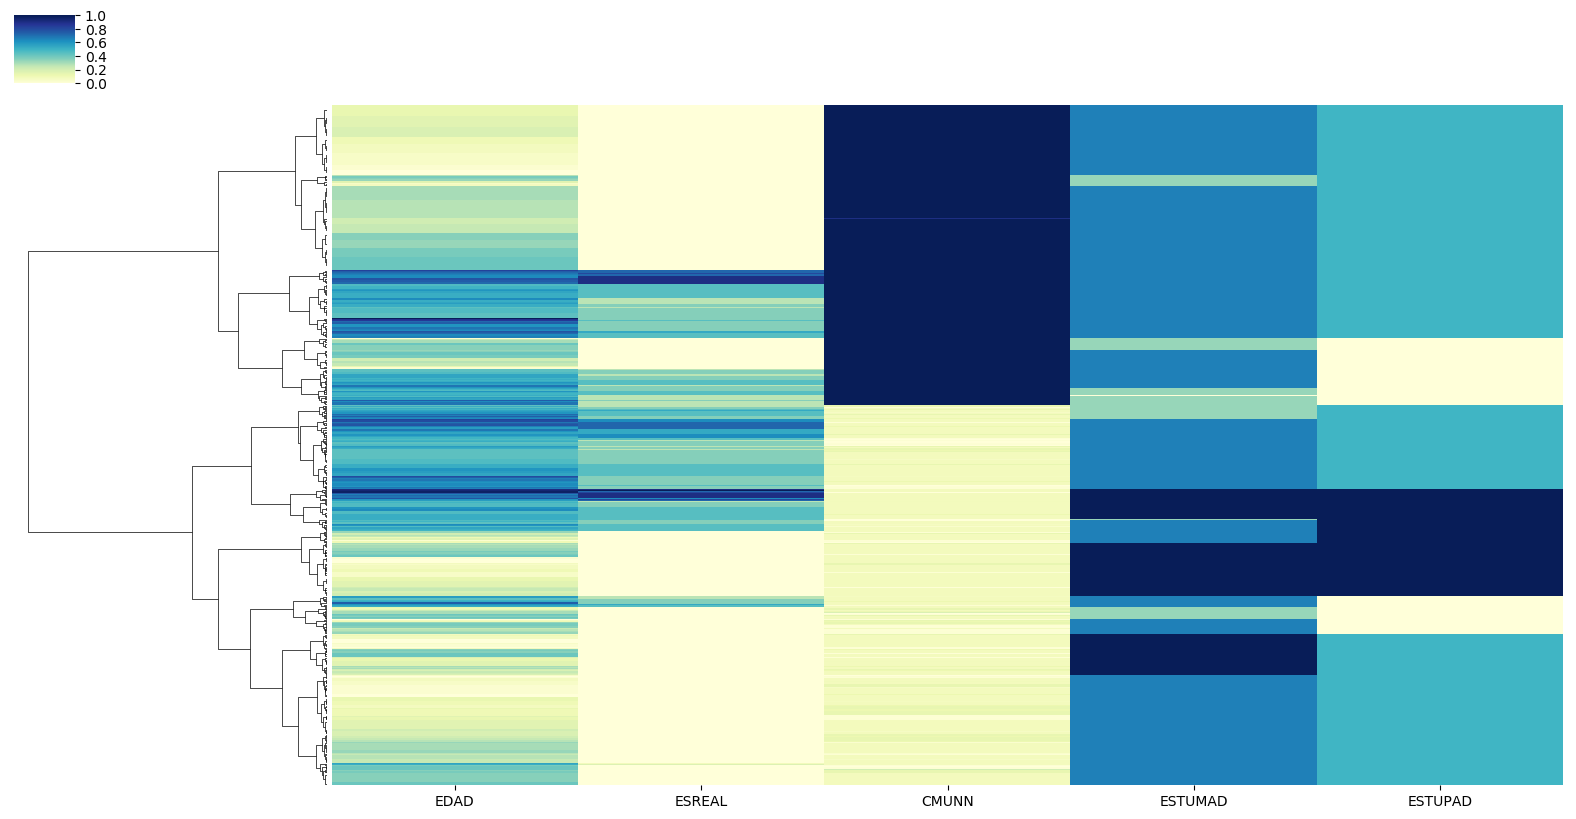
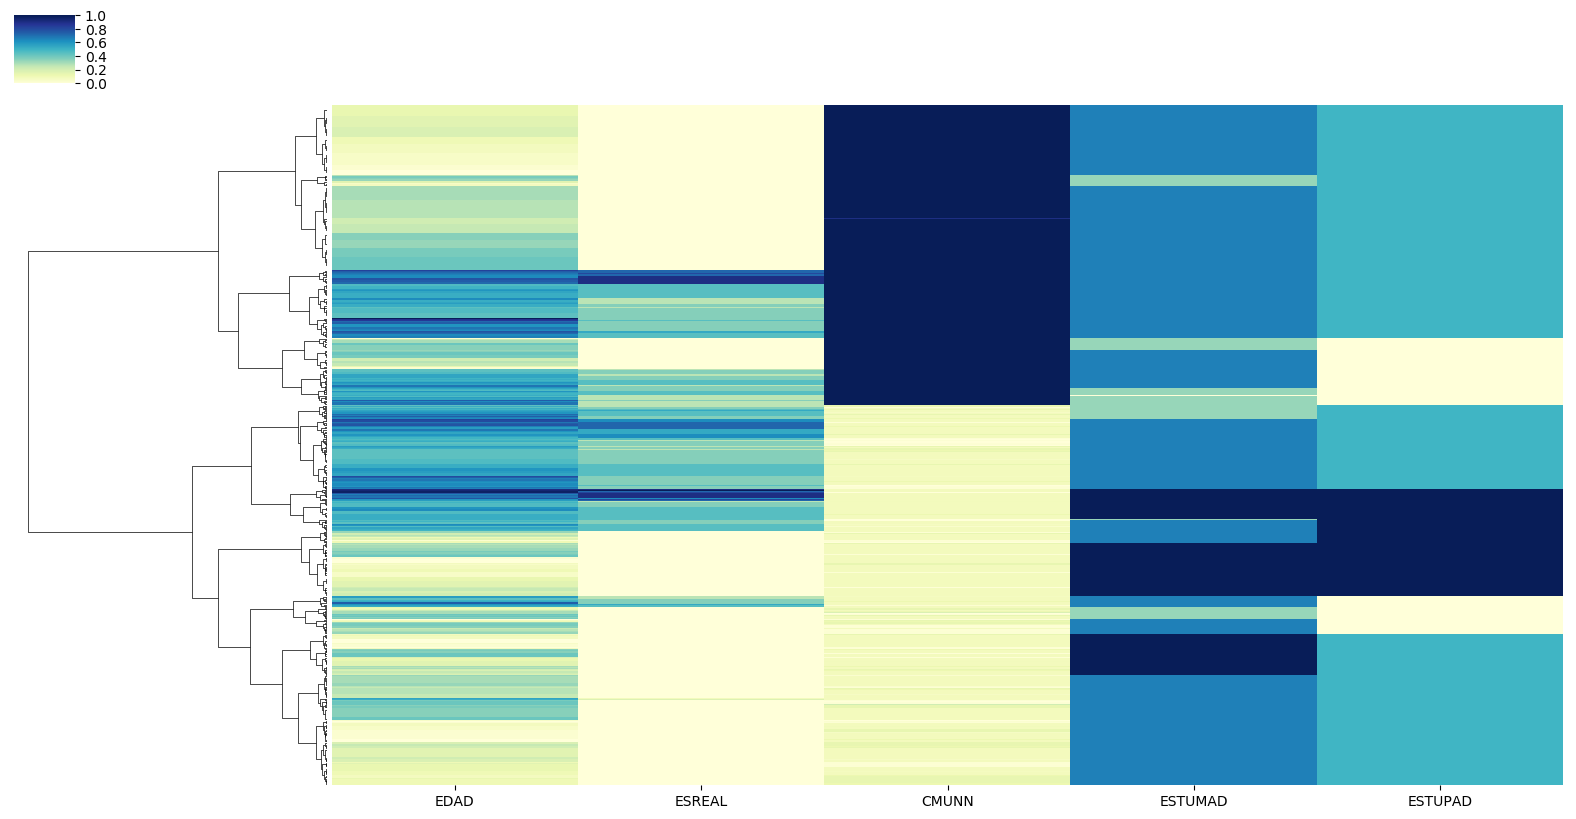
#8 #9 #10 #11 #12 #13 terminados algoritmos. Añadiendo casos

Changed region(s): [[0.1865, 0.8242, 0.3731, 0.9768], [0.5286, 0.8547, 0.684, 0.8852]]

diff --git a/P2/jerarquico.py b/P2/jerarquico.py
@@ -29,6 +29,8 @@ def norma_to_zero_one(df):
 
 
 def agglomerativeClustering(X,num_clusters,caso):
+    if(not(os.path.isdir("./resultados/"+caso+"/Jerarquico"))):
+        os.mkdir("./resultados/"+caso+"/Jerarquico")
     X = X.sample(1000, random_state=77145416)
     X_norm = X.apply(norma_to_zero_one)
     ward = cluster.AgglomerativeClustering(n_clusters = num_clusters, linkage='ward')
@@ -39,20 +41,14 @@ def agglomerativeClustering(X,num_clusters,caso):
     cluster_predict[name] = algorithm.fit_predict(X_norm)
     tiempo = time.time() - t
     k[name] = len(set(cluster_predict[name]))
-    f = open("./resultados/"+caso+"/jerarquico-ward.txt","w")
-    f.write("Ejecutando Clustering Aglomerativo")
-    f.write(": k: {:3.0f}, \n".format(k[name]))
-    f.write("{:6.2f} segundos\n".format(tiempo))
+
     clusters = pd.DataFrame(cluster_predict['Ward'],index=X.index,columns=['cluster'])
     size = clusters['cluster'].value_counts()
-    for num,i in size.iteritems():
-        f.write('%s: %5d (%5.2f%%)' % (num,i,100*i/len(clusters))+"\n")
-    X_cluster = pd.concat([X, clusters], axis=1)
     min_size = 10
+    X_cluster = pd.concat([X_norm, clusters], axis=1)
     X_filtrado = X_cluster[X_cluster.groupby('cluster').cluster.transform(len) > min_size]
     k_filtrado = len(set(X_filtrado['cluster']))
-    f.write("De los {:.0f} clusters hay {:.0f} con más de {:.0f} elementos. Del total de {:.0f} elementos, se seleccionan {:.0f}".format(k['Ward'],k_filtrado,min_size,len(X),len(X_filtrado)))
-    f.close()
+
     X_filtrado = X_filtrado.drop('cluster', axis=1)
     X_filtrado_normal = X_filtrado.apply(norma_to_zero_one)
     linkage_array = hierarchy.ward(X_filtrado_normal)
@@ -60,8 +56,43 @@ def agglomerativeClustering(X,num_clusters,caso):
     plt.clf()
     h_dict = hierarchy.dendrogram(linkage_array,orientation='left')
     plt.show()
-    sns_plot = sns.clustermap(X_filtrado_normal, method='ward', col_cluster=False, figsize=(20,10), cmap="YlGnBu", yticklabels=False)
-    sns_plot.savefig("./resultados/"+caso+"/clustermap.png")
 
+    n_cl = input("Dime el número de clusters que quieres: ")
+    n_cl = int(n_cl)
+    ward = cluster.AgglomerativeClustering(n_clusters = n_cl, linkage='ward')
+    name, algorithm = ('Ward', ward)
+    cluster_predict = {}
+    k = {}
+    t = time.time()
+    cluster_predict[name] = algorithm.fit_predict(X_norm)
+    tiempo = time.time() - t
+    k[name] = len(set(cluster_predict[name]))
+    f = open("./resultados/"+caso+"/Jerarquico/jerarquico-ward.txt","w")
+    f.write("Ejecutando Clustering Aglomerativo")
+    f.write(": k: {:3.0f}, \n".format(k[name]))
+    f.write("{:6.2f} segundos\n".format(tiempo))
+    clusters = pd.DataFrame(cluster_predict['Ward'],index=X.index,columns=['cluster'])
+    size = clusters['cluster'].value_counts()
+    for num,i in size.iteritems():
+        f.write('%s: %5d (%5.2f%%)' % (num,i,100*i/len(clusters))+"\n")
+    f.write("De los {:.0f} clusters hay {:.0f} con más de {:.0f} elementos. Del total de {:.0f} elementos, se seleccionan {:.0f}".format(k['Ward'],k_filtrado,min_size,len(X),len(X_filtrado)))
+    f.close()
+    X_cluster = pd.concat([X_norm, clusters], axis=1)
+    cluster_centers = X_cluster.groupby('cluster').mean()
+    centers = pd.DataFrame(cluster_centers,columns=list(X))
+    centers_desnormal = centers.copy()
+
+
+    for var in list(centers):
+        centers_desnormal[var] = X[var].min() + centers[var] * (X[var].max() - X[var].min())
+
+    ax = sns.heatmap(centers, cmap="YlGnBu", annot=centers_desnormal, fmt='.3f')
+    figure = ax.get_figure()
+    figure.savefig("./resultados/"+caso+"/Jerarquico/heatmap-jerarquico.png", dpi=400)
+    min_size = 50
+    X_filtrado = X_cluster[X_cluster.groupby('cluster').cluster.transform(len) > min_size]
+    k_filtrado = len(set(X_filtrado['cluster']))
+    sns_plot = sns.clustermap(X_filtrado_normal, method='ward', col_cluster=False, figsize=(20,10), cmap="YlGnBu", yticklabels=False)
+    sns_plot.savefig("./resultados/"+caso+"/Jerarquico/clustermap.png")
 
 #'''

diff --git a/P2/meanshift.py b/P2/meanshift.py
@@ -24,6 +24,8 @@ import seaborn as sns
 
 
 def meanshift(dataset,dataset_norm,caso):
+    if(not(os.path.isdir("./resultados/"+caso+"/MeanShift"))):
+        os.mkdir("./resultados/"+caso+"/MeanShift")
     bandwidth = estimate_bandwidth(dataset_norm, quantile=0.2, n_samples=500)
     ms = MeanShift(bandwidth = bandwidth, bin_seeding=True)
     t = time.time()
@@ -33,7 +35,7 @@ def meanshift(dataset,dataset_norm,caso):
     cluster_centers = ms.cluster_centers_
     labels_unique = np.unique(labels)
     n_clusters_ = len(labels_unique)
-    f = open("./resultados/"+caso+"/meanshift.txt","w")
+    f = open("./resultados/"+caso+"/MeanShift/meanshift.txt","w")
     f.write("Ejecutando MeanShift")
     f.write(": {:.2f} segundos, ".format(tiempo)+"\n")
     f.write("Número estimado de clusters: %d \n" %n_clusters_)
@@ -60,7 +62,7 @@ def meanshift(dataset,dataset_norm,caso):
     print(centers_desnormal)
     ax = sns.heatmap(centers, cmap="YlGnBu", annot=centers_desnormal, fmt='.3f')
     figure = ax.get_figure()
-    figure.savefig("./resultados/"+caso+"/heatmap-ms.png", dpi=400)
+    figure.savefig("./resultados/"+caso+"/MeanShift/heatmap-ms.png", dpi=400)
 
     X_meanshift = pd.concat([dataset, clusters], axis=1)
     sns.set()
@@ -68,7 +70,7 @@ def meanshift(dataset,dataset_norm,caso):
     variables.remove('cluster')
     sns_plot = sns.pairplot(X_meanshift, vars=variables, hue="cluster") #en hue indicamos que la columna 'cluster' define los colores
     sns_plot.fig.subplots_adjust(wspace=.03, hspace=.03);
-    sns_plot.savefig("./resultados/"+caso+"/meanshift.png")
+    sns_plot.savefig("./resultados/"+caso+"/Meanshift/meanshift.png")
 
 
 #'''

diff --git a/P2/kmeans.py b/P2/kmeans.py
@@ -37,12 +37,17 @@ def ElbowMethod(dataset_norm):
     plt.show()
 
 
-def kMeans(dataset,dataset_norm,num_clusters,caso):
-    k_means = KMeans(init='k-means++', n_clusters=num_clusters)
+def kMeans(dataset,dataset_norm,caso):
+    if(not(os.path.isdir("./resultados/"+caso+"/kMeans"))):
+        os.mkdir("./resultados/"+caso+"/kMeans")
+    ElbowMethod(dataset_norm)
+    n_cl = print("Indica el número de clusters: ")
+    n_cl = int(n_cl)
+    k_means = KMeans(init='k-means++', n_clusters=n_cl)
     t = time.time()
     cluster_predict = k_means.fit_predict(dataset_norm)
     tiempo = time.time() - t
-    f = open("./resultados/"+caso+"/kmeans.txt","w")
+    f = open("./resultados/"+caso+"/kMeans/kmeans.txt","w")
     f.write("Ejecutando k-means")
     f.write(": {:.2f} segundos, ".format(tiempo))
     metric_CH = metrics.calinski_harabaz_score(dataset_norm, cluster_predict)
@@ -66,7 +71,7 @@ def kMeans(dataset,dataset_norm,num_clusters,caso):
 
     ax = sns.heatmap(centers, cmap="YlGnBu", annot = centers_desnormal, fmt='.3f')
     figure = ax.get_figure()
-    figure.savefig("./resultados/"+caso+"/heatmap-km.png", dpi=400)
+    figure.savefig("./resultados/"+caso+"/kMeans/heatmap-km.png", dpi=400)
 
     # Scatter Plot
     X_kmeans = pd.concat([dataset,clusters],axis=1)
@@ -75,6 +80,6 @@ def kMeans(dataset,dataset_norm,num_clusters,caso):
     variables.remove('cluster')
     sns_plot = sns.pairplot(X_kmeans, vars = variables, hue = 'cluster')
     sns_plot.fig.subplots_adjust(wspace=.03, hspace=.03)
-    sns_plot.savefig("./resultados/"+caso+"/kmeans.png")
+    sns_plot.savefig("./resultados/"+caso+"/kMeans/kmeans.png")
 
 #'''

diff --git a/P2/dbscan.py b/P2/dbscan.py
@@ -24,6 +24,8 @@ from itertools import cycle
 import seaborn as sns
 
 def dbscan(dataset,dataset_norm,eps,min_samples,caso):
+    if(not(os.path.isdir("./resultados/"+caso+"/DBSCAN"))):
+        os.mkdir("./resultados/"+caso+"/DBSCAN")
     t = time.time()
     db = DBSCAN(eps=eps,min_samples=min_samples).fit(dataset_norm)
     labels = db.labels_
@@ -32,7 +34,7 @@ def dbscan(dataset,dataset_norm,eps,min_samples,caso):
     n_clusters_ = len(set(labels)) - (1 if -1 in labels else 0)
     n_noise_ = list(labels).count(-1)
 
-    f = open("./resultados/"+caso+"/dbscan.txt","w")
+    f = open("./resultados/"+caso+"/DBSCAN/dbscan.txt","w")
     f.write("Ejecutando DBSCAN")
     f.write(": {:.2f} segundos, ".format(tiempo))
     metric_CH = metrics.calinski_harabaz_score(dataset_norm, labels)
@@ -69,7 +71,7 @@ def dbscan(dataset,dataset_norm,eps,min_samples,caso):
 
     ax = sns.heatmap(centers, cmap="YlGnBu", annot=centers_desnormal, fmt='.3f')
     figure = ax.get_figure()
-    figure.savefig("./resultados/"+caso+"/heatmap-dbscan.png", dpi=400)
+    figure.savefig("./resultados/"+caso+"/DBSCAN/heatmap-dbscan.png", dpi=400)
 
     X_DBSCAN = pd.concat([dataset,clusters],axis=1)
     X_DBSCAN = X_DBSCAN[X_DBSCAN.cluster != -1]
@@ -78,7 +80,7 @@ def dbscan(dataset,dataset_norm,eps,min_samples,caso):
     variables.remove('cluster')
     sns_plot = sns.pairplot(X_DBSCAN, vars = variables, hue="cluster")
     sns_plot.fig.subplots_adjust(wspace=.03, hspace=.03);
-    sns_plot.savefig("./resultados/"+caso+"/dbscan.png")
+    sns_plot.savefig("./resultados/"+caso+"/DBSCAN/dbscan.png")
 
 
 

diff --git a/P2/caso3.py b/P2/caso3.py
@@ -5,7 +5,7 @@ Autor:
 Fecha:
     Noviembre/2018
 Contenido:
-    Caso 1 de estudio
+    Caso 3 de estudio: Hogar biparental con hijos menores de 25 años
     Práctica 2
     Inteligencia de Negocio
     Doble Grado en Ingeniería Informática y Matemáticas
@@ -24,35 +24,36 @@ import os
 def norm_to_zero_one(df):
     return (df - df.min()) * 1.0 / (df.max() - df.min())
 
-if(not(os.path.isdir("./resultados/Caso1"))):
-    os.mkdir("./resultados/Caso1")
+if(not(os.path.isdir("./resultados/Caso3"))):
+    os.mkdir("./resultados/Caso3")
 
 censo = pd.read_csv('./data/censo_granada.csv')
 censo = censo.replace(np.NaN,0)
 
-subset = censo.loc[censo['EDADMAD'] > 0]
-subset = subset.loc[censo['EDADPAD'] > 0]
+subset = censo.loc[censo['HIJOS'] <= 25]
+subset = subset.loc[censo['ESTHOG'] == 8]
 
-usadas = ['EDAD', 'ESREAL', 'CMUNN', 'ESTUMAD', 'ESTUPAD']
+usadas = ['NPFAM', 'H6584', 'CMUNN', 'ANOCONS', 'ESTADO', 'DIFEDAD']
 X = subset[usadas]
 X_norm = X.apply(norm_to_zero_one)
-caso = "Caso1"
+caso = "Caso3"
+
 # KMEANS
 # Para calcular el número idóneo de clusters -> tras la ejecución se puede ver que es 2
 print("kMeans")
-#km.kMeans(X,X_norm,caso)
+km.kMeans(X,X_norm,caso)
 
 # MEAN SHIFT
 print("Mean Shift")
-#ms.meanshift(X,X_norm,caso)
+ms.meanshift(X,X_norm,caso)
 
 # BIRCH
 print("Birch")
-#br.birch(X,X_norm,4,caso)
+br.birch(X,X_norm,4,caso)
 
 # DBSCAN
 print("DBSCAN")
-#db.dbscan(X,X_norm,0.2,50,caso)
+db.dbscan(X,X_norm,0.2,50,caso)
 
 # CLUSTERING JERÁRQUICO. WARD
 print("Clustering jerárquico. Ward")

diff --git a/P2/caso4.py b/P2/caso4.py
@@ -5,7 +5,7 @@ Autor:
 Fecha:
     Noviembre/2018
 Contenido:
-    Caso 1 de estudio
+    Caso 4 de estudio: Mujeres y hogar
     Práctica 2
     Inteligencia de Negocio
     Doble Grado en Ingeniería Informática y Matemáticas
@@ -24,35 +24,37 @@ import os
 def norm_to_zero_one(df):
     return (df - df.min()) * 1.0 / (df.max() - df.min())
 
-if(not(os.path.isdir("./resultados/Caso1"))):
-    os.mkdir("./resultados/Caso1")
+if(not(os.path.isdir("./resultados/Caso4"))):
+    os.mkdir("./resultados/Caso4")
 
 censo = pd.read_csv('./data/censo_granada.csv')
 censo = censo.replace(np.NaN,0)
 
-subset = censo.loc[censo['EDADMAD'] > 0]
-subset = subset.loc[censo['EDADPAD'] > 0]
+subset = censo.loc[censo['SEXO'] == 6]
+subset = subset.loc[censo['TAREA'] == 1]
+subset = subset.loc[censo['JORNADA'] == 1]
 
-usadas = ['EDAD', 'ESREAL', 'CMUNN', 'ESTUMAD', 'ESTUPAD']
+usadas = ['EDAD', 'NHIJOS', 'ESREAL', 'TDESP', 'EDADCON']
 X = subset[usadas]
 X_norm = X.apply(norm_to_zero_one)
-caso = "Caso1"
+caso = "Caso4"
+
 # KMEANS
 # Para calcular el número idóneo de clusters -> tras la ejecución se puede ver que es 2
 print("kMeans")
-#km.kMeans(X,X_norm,caso)
+km.kMeans(X,X_norm,caso)
 
 # MEAN SHIFT
 print("Mean Shift")
-#ms.meanshift(X,X_norm,caso)
+ms.meanshift(X,X_norm,caso)
 
 # BIRCH
 print("Birch")
-#br.birch(X,X_norm,4,caso)
+br.birch(X,X_norm,4,caso)
 
 # DBSCAN
 print("DBSCAN")
-#db.dbscan(X,X_norm,0.2,50,caso)
+db.dbscan(X,X_norm,0.2,50,caso)
 
 # CLUSTERING JERÁRQUICO. WARD
 print("Clustering jerárquico. Ward")

diff --git a/P2/caso2.py b/P2/caso2.py
@@ -5,7 +5,7 @@ Autor:
 Fecha:
     Noviembre/2018
 Contenido:
-    Caso 1 de estudio
+    Caso 2 de estudio: Mujeres científicas
     Práctica 2
     Inteligencia de Negocio
     Doble Grado en Ingeniería Informática y Matemáticas
@@ -24,35 +24,36 @@ import os
 def norm_to_zero_one(df):
     return (df - df.min()) * 1.0 / (df.max() - df.min())
 
-if(not(os.path.isdir("./resultados/Caso1"))):
-    os.mkdir("./resultados/Caso1")
+if(not(os.path.isdir("./resultados/Caso2"))):
+    os.mkdir("./resultados/Caso2")
 
 censo = pd.read_csv('./data/censo_granada.csv')
 censo = censo.replace(np.NaN,0)
 
-subset = censo.loc[censo['EDADMAD'] > 0]
-subset = subset.loc[censo['EDADPAD'] > 0]
+subset = censo.loc[censo['SEXO'] == 6]
+subset = subset.loc[censo['TESTUD'] == 5]
 
-usadas = ['EDAD', 'ESREAL', 'CMUNN', 'ESTUMAD', 'ESTUPAD']
+usadas = ['EDAD', 'CODTRABA', 'CMUNN', 'TDESP', 'ESTUCON']
 X = subset[usadas]
 X_norm = X.apply(norm_to_zero_one)
-caso = "Caso1"
+caso = "Caso2"
+
 # KMEANS
 # Para calcular el número idóneo de clusters -> tras la ejecución se puede ver que es 2
 print("kMeans")
-#km.kMeans(X,X_norm,caso)
+km.kMeans(X,X_norm,caso)
 
 # MEAN SHIFT
 print("Mean Shift")
-#ms.meanshift(X,X_norm,caso)
+ms.meanshift(X,X_norm,caso)
 
 # BIRCH
 print("Birch")
-#br.birch(X,X_norm,4,caso)
+br.birch(X,X_norm,4,caso)
 
 # DBSCAN
 print("DBSCAN")
-#db.dbscan(X,X_norm,0.2,50,caso)
+db.dbscan(X,X_norm,0.2,50,caso)
 
 # CLUSTERING JERÁRQUICO. WARD
 print("Clustering jerárquico. Ward")

diff --git a/P2/birch.py b/P2/birch.py
@@ -24,11 +24,13 @@ import seaborn as sns
 
 
 def birch(dataset,dataset_norm,num_clusters,caso):
+    if(not(os.path.isdir("./resultados/"+caso+"/BIRCH"))):
+        os.mkdir("./resultados/"+caso+"/BIRCH")
     br = Birch(n_clusters = num_clusters)
     t = time.time()
     labels = br.fit_predict(dataset_norm)
     tiempo = time.time() - t
-    f = open("./resultados/"+caso+"/birch.txt","w")
+    f = open("./resultados/"+caso+"/BIRCH/birch.txt","w")
     f.write("Ejecutando BIRCH")
     f.write(": {:.2f} segundos, ".format(tiempo))
     metric_CH = metrics.calinski_harabaz_score(dataset_norm, labels)
@@ -59,7 +61,7 @@ def birch(dataset,dataset_norm,num_clusters,caso):
 
     ax = sns.heatmap(centers, cmap="YlGnBu", annot=centers_desnormal, fmt='.3f')
     figure = ax.get_figure()
-    figure.savefig("./resultados/"+caso+"/heatmap-br.png", dpi=400)
+    figure.savefig("./resultados/"+caso+"/BIRCH/heatmap-br.png", dpi=400)
 
     X_birch = pd.concat([dataset,clusters],axis=1)
     sns.set()
@@ -67,7 +69,7 @@ def birch(dataset,dataset_norm,num_clusters,caso):
     variables.remove('cluster')
     sns_plot = sns.pairplot(X_birch, vars = variables, hue="cluster")
     sns_plot.fig.subplots_adjust(wspace=.03, hspace=.03);
-    sns_plot.savefig("./resultados/"+caso+"/birch.png")
+    sns_plot.savefig("./resultados/"+caso+"/BIRCH/birch.png")
 
 
 
